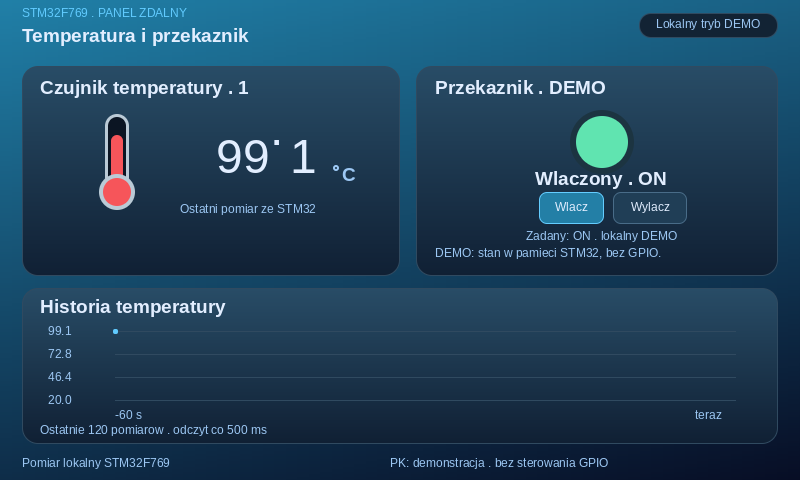
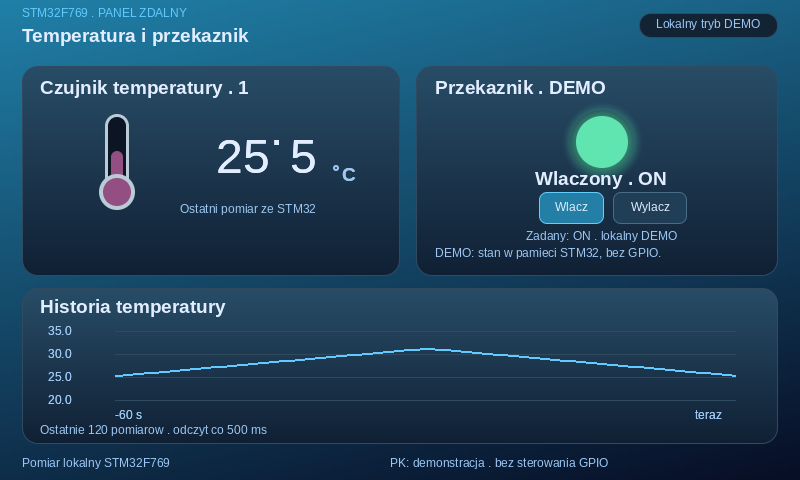
Add relay glow, slow wide-range demo and line-only temperature chart

diff --git a/tests/lcd_temperature_dashboard_test.py b/tests/lcd_temperature_dashboard_test.py
@@ -2,7 +2,7 @@
 from pathlib import Path
 import tempfile, subprocess, shutil
 root = Path(__file__).resolve().parents[1]
-resources = {'test.c': '#include "SCREEN_TemperaturePk.c"\n#include "font_metrics.h"\n#include <assert.h>\n#include <string.h>\n#include <stdlib.h>\nuint32_t pLcd[800*480];\nuint16_t screenTouchState;\nXY_Touch_Struct screenTouchPos;\nstatic XY_Touch_Struct position;\nstatic uint32_t tick;\nstatic int down,samples,fontFailure,shows,parts,registered,resolution=800;\nstatic int fontIndex[17];\nstatic int currentTemperature=255;\nstatic FILE *textLog;\nstatic int decimalChecks,fractionChecks;\nuint32_t HAL_GetTick(void){return tick;}\nuint32_t LCD_GetXSize(void){return resolution;}\nuint32_t LCD_GetYSize(void){return 480;}\nvoid SCREEN_ResetAllParameters(void){memset(pLcd,0,sizeof(pLcd));}\nvoid LCD_Buffer(uint16_t w,uint16_t x,uint16_t y,uint32_t color){assert(w==800&&x<800&&y<480);pLcd[y*w+x]=color;}\nvoid LCD_Shape(uint32_t x,uint32_t y,void *shape,uint32_t w,uint32_t h,uint32_t fc,uint32_t fill,uint32_t bk){\n (void)shape;(void)fc;(void)bk;assert(x+w<=800&&y+h<=480);\n for(unsigned j=y;j<y+h;j++)for(unsigned i=x;i<x+w;i++)pLcd[j*800+i]=fill;\n}\nint LCD_LoadFont_ChangeColor(int size,int style,uint32_t id){\n (void)style;if(fontFailure)return -3;assert(id<17);\n fontIndex[id]=size==16?0:size==24?1:size==28?2:size==72?3:size==9?4:size==14?5:6;return (int)id;\n}\nint LCD_GetWholeStrPxlWidth(int font,char *text,int space,int fixed){\n (void)space;(void)fixed;int n=0;for(;*text;text++)n+=mockWidths[fontIndex[font]][(unsigned char)*text];return n;\n}\nvoid LCD_StrChangeColor(int f,int x,int y,char*t,int h,int s,uint32_t bg,uint32_t color,uint8_t max,int fixed){\n (void)h;(void)s;(void)bg;(void)max;(void)fixed;\n if(f==dashboard.fonts[2] && fixed==ConstWidth){\n   assert(y==140);\n   if(strcmp(t,".")==0){assert(x==270);decimalChecks++;}\n   else if(x==290){assert(strlen(t)==1);fractionChecks++;}\n   else assert(x+LCD_GetWholeStrPxlWidth(f,t,0,ConstWidth)==270);\n }\n\n assert(x>=0&&y>=0&&x+LCD_GetWholeStrPxlWidth(f,t,0,0)<=800&&y+mockSizes[fontIndex[f]]<=480);\n if(textLog)fprintf(textLog,"%d\\t%d\\t%d\\t%08x\\t%d\\t%s\\n",x,y,mockSizes[fontIndex[f]],color,(fontIndex[f]==2 || fontIndex[f]==5),t);\n}\nvoid LCD_Show(void){shows++;}\nvoid LCD_DisplayPart(uint32_t offset,uint32_t x,uint32_t y,uint32_t w,uint32_t h){assert(offset==0&&x+w<=800&&y+h<=480);parts++;}\nvoid LCD_TOUCH_DeleteSelectTouch(uint16_t id){assert(id>=61000&&id<=61002);registered=0;}\nvoid LCD_TOUCH_DeleteAllSetTouch(void){registered=0;}\nint LCDTOUCH_Set(uint16_t x,uint16_t y,uint16_t w,uint16_t h,uint16_t id,uint16_t index,uint8_t param){\n assert(x+w<=800&&y+h<=480&&id==ID_TOUCH_POINT&&index>=61000&&index<=61002&&param==pressRelease);registered=1;return 0;\n}\nint LCD_TOUCH_isPress(void){return down?press:release;}\nXY_Touch_Struct LCD_TOUCH_GetPos(void){return position;}\nuint16_t LCD_TOUCH_GetTypeAndPosition(XY_Touch_Struct*p){*p=position;return registered&&down?61000:0;}\nstatic int sensor(void){samples++;return currentTemperature;}\nstatic void touch(int isDown,int x,int y){down=isDown;position.x=x;position.y=y;}\nstatic void preview(const char *name,int on){\n char path[150];uint8_t pk=(uint8_t)on;\n snprintf(path,sizeof(path),"%s.text",name);textLog=fopen(path,"w");assert(textLog);\n LCD_TemperaturePkPanel2(LCD_TEMP_EXIT,NULL,NULL);touch(0,0,0);\n assert(LCD_TemperaturePkPanel2(LCD_TEMP_ENTER,sensor,&pk)==0);fclose(textLog);textLog=NULL;\n snprintf(path,sizeof(path),"%s.ppm",name);FILE *out=fopen(path,"wb");assert(out);\n fprintf(out,"P6\\n800 480\\n255\\n");for(int i=0;i<800*480;i++){unsigned char b[3]={pLcd[i]>>16,pLcd[i]>>8,pLcd[i]};fwrite(b,1,3,out);}fclose(out);\n}\n\nint main(void){\n uint8_t pk=0;currentTemperature=991;\n assert(LCD_TemperaturePkPanel2(LCD_TEMP_ENTER,sensor,&pk)==0&&samples==1);\n tick=499;LCD_TemperaturePkPanel2(LCD_TEMP_UPDATE,sensor,&pk);assert(samples==1);\n tick=500;LCD_TemperaturePkPanel2(LCD_TEMP_UPDATE,sensor,&pk);assert(samples==2);\n touch(1,570,205);LCD_TemperaturePkPanel2(0,sensor,&pk);assert(pk==0);\n touch(0,570,205);assert(LCD_TemperaturePkPanel2(0,sensor,&pk)==1&&pk==1);\n touch(1,650,205);LCD_TemperaturePkPanel2(0,sensor,&pk);\n touch(0,650,205);assert(LCD_TemperaturePkPanel2(0,sensor,&pk)==1&&pk==0);\n touch(1,570,205);LCD_TemperaturePkPanel2(0,sensor,&pk);\n touch(0,700,240);assert(LCD_TemperaturePkPanel2(0,sensor,&pk)==0&&pk==0);\n for(int i=0;i<140;i++){tick+=500;currentTemperature=i%3==0?INT_MIN:(i%2?-800:1500);LCD_TemperaturePkPanel2(0,sensor,&pk);}\n assert(dashboard.count==120&&dashboard.head<120);\n LCD_TemperaturePkPanel2(2,NULL,NULL);tick=UINT32_MAX-250;touch(0,0,0);\n LCD_TemperaturePkPanel2(1,sensor,&pk);int before=samples;tick=249;\n LCD_TemperaturePkPanel2(0,sensor,&pk);assert(samples==before+1);\n fontFailure=1;assert(LCD_TemperaturePkPanel2(1,sensor,&pk)==-3);fontFailure=0;\n currentTemperature=991;preview("dashboard-on",1);\n for(int i=0;i<120;i++){tick+=500;currentTemperature=250+(i<60?i*10:600-i*5);LCD_TemperaturePkPanel2(0,sensor,&pk);}\n LCD_TemperaturePkPanel2(2,NULL,NULL);touch(0,0,0);\n assert(LCD_TemperaturePkPanel2(1,NULL,&pk)==0&&lcdPanel2Temperature10==255);\n int last=lcdPanel2Temperature10,ups=0,downs=0;\n for(int i=0;i<1000;i++){\n  tick+=499;LCD_TemperaturePkPanel2(0,NULL,&pk);assert(lcdPanel2Temperature10==last);\n  tick++;LCD_TemperaturePkPanel2(0,NULL,&pk);\n  int value=lcdPanel2Temperature10,delta=value-last;\n  assert(value>=200&&value<=350&&abs(delta)>=1&&abs(delta)<=3);\n  ups+=delta>0;downs+=delta<0;last=value;\n }\n assert(ups>0&&downs>0&&dashboard.count==120);\n int checks=decimalChecks;\n const int transitions[]={99,100,999,1000,-1,-100,1500,INT_MIN};\n for(unsigned i=0;i<sizeof(transitions)/sizeof(transitions[0]);i++){\n  tick+=500;currentTemperature=transitions[i];LCD_TemperaturePkPanel2(0,sensor,&pk);\n }\n assert(decimalChecks==checks+8&&fractionChecks==decimalChecks);\n puts("Dark dashboard: 500 ms, ON/OFF, drag cancellation, 120-sample ring, invalid values, tick wrap, bounds: PASS");\n}\n', 'test_support.h': '#ifndef TEST_SUPPORT_H\n#define TEST_SUPPORT_H\n#include <stdint.h>\n#include <stddef.h>\ntypedef struct {uint16_t x,y;} XY_Touch_Struct;\nextern uint16_t screenTouchState;\nextern XY_Touch_Struct screenTouchPos;\nenum {press=1,release=0,pressRelease=2,ID_TOUCH_POINT=0};\nenum {FONT_9=9,FONT_14_bold=14,FONT_36=36,FONT_16=16,FONT_24=24,FONT_28_bold=28,FONT_72=72,Arial=0};\nenum {fontID_14=13,fontID_15=14,fontID_16=15,fontID_17=16};\nenum {fullHight=-3,NoConstWidth=0,ConstWidth=1};\n#define LCD_Rectangle ((void*)1)\nuint32_t HAL_GetTick(void);\nvoid SCREEN_ResetAllParameters(void);\nvoid LCD_Buffer(uint16_t,uint16_t,uint16_t,uint32_t);\nvoid LCD_Shape(uint32_t,uint32_t,void*,uint32_t,uint32_t,uint32_t,uint32_t,uint32_t);\nvoid LCD_StrChangeColor(int,int,int,char*,int,int,uint32_t,uint32_t,uint8_t,int);\nint LCD_GetWholeStrPxlWidth(int,char*,int,int);\nint LCD_LoadFont_ChangeColor(int,int,uint32_t);\nvoid LCD_Show(void);\nvoid LCD_DisplayPart(uint32_t,uint32_t,uint32_t,uint32_t,uint32_t);\nuint32_t LCD_GetXSize(void);\nuint32_t LCD_GetYSize(void);\nvoid LCD_TOUCH_DeleteSelectTouch(uint16_t);\nvoid LCD_TOUCH_DeleteAllSetTouch(void);\nint LCDTOUCH_Set(uint16_t,uint16_t,uint16_t,uint16_t,uint16_t,uint16_t,uint8_t);\nint LCD_TOUCH_isPress(void);\nXY_Touch_Struct LCD_TOUCH_GetPos(void);\nuint16_t LCD_TOUCH_GetTypeAndPosition(XY_Touch_Struct*);\n#endif\n', 'font_metrics.h': 'static const int mockSizes[7]={21,32,37,96,12,19,48};\nstatic const unsigned short mockWidths[7][128]={{0,0,0,0,0,0,0,0,0,0,0,0,0,0,0,0,0,0,0,0,0,0,0,0,0,0,0,0,0,0,0,0,6,6,7,12,12,19,14,4,7,7,8,12,6,7,6,6,12,12,12,12,12,12,12,12,12,12,6,6,12,12,12,12,21,14,14,15,15,14,13,16,15,6,10,14,12,18,15,16,14,16,15,14,13,15,14,20,14,14,13,6,6,6,10,12,7,12,12,10,12,12,6,12,12,5,5,10,5,18,12,12,12,12,7,10,6,12,10,15,10,10,10,7,5,7,12,16},{0,0,0,0,0,0,0,0,0,0,0,0,0,0,0,0,0,0,0,0,0,0,0,0,0,0,0,0,0,0,0,0,9,9,11,18,18,28,21,6,11,11,12,19,9,11,9,9,18,18,18,18,18,18,18,18,18,18,9,9,19,19,19,18,32,21,21,23,23,21,20,25,23,9,16,21,18,27,23,25,21,25,23,21,20,23,21,30,21,21,20,9,9,9,15,18,11,18,18,16,18,18,9,18,18,7,7,16,7,27,18,18,18,18,11,16,9,18,16,23,16,16,16,11,8,11,19,24},{0,0,0,0,0,0,0,0,0,0,0,0,0,0,0,0,0,0,0,0,0,0,0,0,0,0,0,0,0,0,0,0,10,12,18,21,21,33,27,9,12,12,14,22,10,12,10,10,21,21,21,21,21,21,21,21,21,21,12,12,22,22,22,23,36,27,27,27,27,25,23,29,27,10,21,27,23,31,27,29,25,29,27,25,23,27,25,35,25,25,23,12,10,12,22,21,12,21,23,21,23,21,12,23,23,10,10,21,10,33,23,23,23,23,14,21,12,23,21,29,21,21,18,14,10,14,22,28},{0,0,0,0,0,0,0,0,0,0,0,0,0,0,0,0,0,0,0,0,0,0,0,0,0,0,0,0,0,0,0,0,27,27,34,53,53,85,64,18,32,32,37,56,27,32,27,27,53,53,53,53,53,53,53,53,53,53,27,27,56,56,56,53,97,64,64,69,69,64,59,75,69,27,48,64,53,80,69,75,64,75,69,64,59,69,64,91,64,64,59,27,27,27,45,53,32,53,53,48,53,53,27,53,53,21,21,48,21,80,53,53,53,53,32,48,27,53,48,69,48,48,48,32,25,32,56,72},{0,0,0,0,0,0,0,0,0,0,0,0,0,0,0,0,0,0,0,0,0,0,0,0,0,0,0,0,0,0,0,0,3,3,4,7,7,11,8,2,4,4,5,7,3,4,3,3,7,7,7,7,7,7,7,7,7,7,3,3,7,7,7,7,12,8,8,9,9,8,7,9,9,3,6,8,7,10,9,9,8,9,9,8,7,9,8,11,8,8,7,3,3,3,6,7,4,7,7,6,7,7,3,7,7,3,3,6,3,10,7,7,7,7,4,6,3,7,6,9,6,6,6,4,3,4,7,9},{0,0,0,0,0,0,0,0,0,0,0,0,0,0,0,0,0,0,0,0,0,0,0,0,0,0,0,0,0,0,0,0,5,6,9,11,11,17,14,5,6,6,7,11,5,6,5,5,11,11,11,11,11,11,11,11,11,11,6,6,11,11,11,12,19,14,14,14,14,13,12,15,14,5,11,14,12,16,14,15,13,15,14,13,12,14,13,18,13,13,12,6,5,6,11,11,6,11,12,11,12,11,6,12,12,5,5,11,5,17,12,12,12,12,7,11,6,12,11,15,11,11,10,7,5,7,11,14},{0,0,0,0,0,0,0,0,0,0,0,0,0,0,0,0,0,0,0,0,0,0,0,0,0,0,0,0,0,0,0,0,13,13,17,27,27,43,32,9,16,16,19,28,13,16,13,13,27,27,27,27,27,27,27,27,27,27,13,13,28,28,28,27,49,32,32,35,35,32,29,37,35,13,24,32,27,40,35,37,32,37,35,32,29,35,32,45,32,32,29,13,13,13,23,27,16,27,27,24,27,27,13,27,27,11,11,24,11,40,27,27,27,27,16,24,13,27,24,35,24,24,24,16,12,16,28,36}};'}
+resources = {'test.c': '#include "SCREEN_TemperaturePk.c"\n#include "font_metrics.h"\n#include <assert.h>\n#include <string.h>\n#include <stdlib.h>\nuint32_t pLcd[800*480];\nuint16_t screenTouchState;\nXY_Touch_Struct screenTouchPos;\nstatic XY_Touch_Struct position;\nstatic uint32_t tick;\nstatic int down,samples,fontFailure,shows,parts,registered,resolution=800;\nstatic int fontIndex[17];\nstatic int currentTemperature=255;\nstatic FILE *textLog;\nstatic int decimalChecks,fractionChecks;\nuint32_t HAL_GetTick(void){return tick;}\nuint32_t LCD_GetXSize(void){return resolution;}\nuint32_t LCD_GetYSize(void){return 480;}\nvoid SCREEN_ResetAllParameters(void){memset(pLcd,0,sizeof(pLcd));}\nvoid LCD_Buffer(uint16_t w,uint16_t x,uint16_t y,uint32_t color){assert(w==800&&x<800&&y<480);pLcd[y*w+x]=color;}\nvoid LCD_Shape(uint32_t x,uint32_t y,void *shape,uint32_t w,uint32_t h,uint32_t fc,uint32_t fill,uint32_t bk){\n (void)shape;(void)fc;(void)bk;assert(x+w<=800&&y+h<=480);\n for(unsigned j=y;j<y+h;j++)for(unsigned i=x;i<x+w;i++)pLcd[j*800+i]=fill;\n}\nint LCD_LoadFont_ChangeColor(int size,int style,uint32_t id){\n (void)style;if(fontFailure)return -3;assert(id<17);\n fontIndex[id]=size==16?0:size==24?1:size==28?2:size==72?3:size==9?4:size==14?5:6;return (int)id;\n}\nint LCD_GetWholeStrPxlWidth(int font,char *text,int space,int fixed){\n (void)space;(void)fixed;int n=0;for(;*text;text++)n+=mockWidths[fontIndex[font]][(unsigned char)*text];return n;\n}\nvoid LCD_StrChangeColor(int f,int x,int y,char*t,int h,int s,uint32_t bg,uint32_t color,uint8_t max,int fixed){\n (void)h;(void)s;(void)bg;(void)max;(void)fixed;\n if(f==dashboard.fonts[2] && fixed==ConstWidth){\n   assert(y==140);\n   if(strcmp(t,".")==0){assert(x==270);decimalChecks++;}\n   else if(x==290){assert(strlen(t)==1);fractionChecks++;}\n   else assert(x+LCD_GetWholeStrPxlWidth(f,t,0,ConstWidth)==270);\n }\n\n assert(x>=0&&y>=0&&x+LCD_GetWholeStrPxlWidth(f,t,0,0)<=800&&y+mockSizes[fontIndex[f]]<=480);\n if(textLog)fprintf(textLog,"%d\\t%d\\t%d\\t%08x\\t%d\\t%s\\n",x,y,mockSizes[fontIndex[f]],color,(fontIndex[f]==2 || fontIndex[f]==5),t);\n}\nvoid LCD_Show(void){shows++;}\nvoid LCD_DisplayPart(uint32_t offset,uint32_t x,uint32_t y,uint32_t w,uint32_t h){assert(offset==0&&x+w<=800&&y+h<=480);parts++;}\nvoid LCD_TOUCH_DeleteSelectTouch(uint16_t id){assert(id>=61000&&id<=61002);registered=0;}\nvoid LCD_TOUCH_DeleteAllSetTouch(void){registered=0;}\nint LCDTOUCH_Set(uint16_t x,uint16_t y,uint16_t w,uint16_t h,uint16_t id,uint16_t index,uint8_t param){\n assert(x+w<=800&&y+h<=480&&id==ID_TOUCH_POINT&&index>=61000&&index<=61002&&param==pressRelease);registered=1;return 0;\n}\nint LCD_TOUCH_isPress(void){return down?press:release;}\nXY_Touch_Struct LCD_TOUCH_GetPos(void){return position;}\nuint16_t LCD_TOUCH_GetTypeAndPosition(XY_Touch_Struct*p){*p=position;return registered&&down?61000:0;}\nstatic int sensor(void){samples++;return currentTemperature;}\nstatic void touch(int isDown,int x,int y){down=isDown;position.x=x;position.y=y;}\nstatic void preview(const char *name,int on){\n char path[150];uint8_t pk=(uint8_t)on;\n snprintf(path,sizeof(path),"%s.text",name);textLog=fopen(path,"w");assert(textLog);\n LCD_TemperaturePkPanel2(LCD_TEMP_EXIT,NULL,NULL);touch(0,0,0);\n assert(LCD_TemperaturePkPanel2(LCD_TEMP_ENTER,sensor,&pk)==0);fclose(textLog);textLog=NULL;\n snprintf(path,sizeof(path),"%s.ppm",name);FILE *out=fopen(path,"wb");assert(out);\n fprintf(out,"P6\\n800 480\\n255\\n");for(int i=0;i<800*480;i++){unsigned char b[3]={pLcd[i]>>16,pLcd[i]>>8,pLcd[i]};fwrite(b,1,3,out);}fclose(out);\n}\n\nint main(void){\n uint8_t pk=0;currentTemperature=991;\n assert(LCD_TemperaturePkPanel2(LCD_TEMP_ENTER,sensor,&pk)==0&&samples==1);\n tick=499;LCD_TemperaturePkPanel2(LCD_TEMP_UPDATE,sensor,&pk);assert(samples==1);\n tick=500;LCD_TemperaturePkPanel2(LCD_TEMP_UPDATE,sensor,&pk);assert(samples==2);\n touch(1,570,205);LCD_TemperaturePkPanel2(0,sensor,&pk);assert(pk==0);\n touch(0,570,205);assert(LCD_TemperaturePkPanel2(0,sensor,&pk)==1&&pk==1);\n touch(1,650,205);LCD_TemperaturePkPanel2(0,sensor,&pk);\n touch(0,650,205);assert(LCD_TemperaturePkPanel2(0,sensor,&pk)==1&&pk==0);\n touch(1,570,205);LCD_TemperaturePkPanel2(0,sensor,&pk);\n touch(0,700,240);assert(LCD_TemperaturePkPanel2(0,sensor,&pk)==0&&pk==0);\n for(int i=0;i<140;i++){tick+=500;currentTemperature=i%3==0?INT_MIN:(i%2?-800:1500);LCD_TemperaturePkPanel2(0,sensor,&pk);}\n assert(dashboard.count==120&&dashboard.head<120);\n LCD_TemperaturePkPanel2(2,NULL,NULL);tick=UINT32_MAX-250;touch(0,0,0);\n LCD_TemperaturePkPanel2(1,sensor,&pk);int before=samples;tick=249;\n LCD_TemperaturePkPanel2(0,sensor,&pk);assert(samples==before+1);\n fontFailure=1;assert(LCD_TemperaturePkPanel2(1,sensor,&pk)==-3);fontFailure=0;\n currentTemperature=991;preview("dashboard-on",1);\n for(int i=0;i<120;i++){tick+=500;currentTemperature=250+(i<60?i*10:600-i*5);LCD_TemperaturePkPanel2(0,sensor,&pk);}\n LCD_TemperaturePkPanel2(2,NULL,NULL);touch(0,0,0);\n assert(LCD_TemperaturePkPanel2(1,NULL,&pk)==0&&lcdPanel2Temperature10==255);\n int last=lcdPanel2Temperature10,ups=0,downs=0;\n for(int i=0;i<4000;i++){\n  tick+=499;LCD_TemperaturePkPanel2(0,NULL,&pk);assert(lcdPanel2Temperature10==last);\n  tick++;LCD_TemperaturePkPanel2(0,NULL,&pk);\n  int value=lcdPanel2Temperature10,delta=value-last;\n  assert(value>=-500&&value<=900&&abs(delta)>=5&&abs(delta)<=6);\n  ups+=delta>0;downs+=delta<0;last=value;\n }\n assert(ups>0&&downs>0&&dashboard.count==120);\n int checks=decimalChecks;\n const int transitions[]={99,100,999,1000,-1,-100,1500,INT_MIN};\n for(unsigned i=0;i<sizeof(transitions)/sizeof(transitions[0]);i++){\n  tick+=500;currentTemperature=transitions[i];LCD_TemperaturePkPanel2(0,sensor,&pk);\n }\n assert(decimalChecks==checks+8&&fractionChecks==decimalChecks);\n puts("Dark dashboard: 500 ms, ON/OFF, drag cancellation, 120-sample ring, invalid values, tick wrap, bounds: PASS");\n}\n', 'test_support.h': '#ifndef TEST_SUPPORT_H\n#define TEST_SUPPORT_H\n#include <stdint.h>\n#include <stddef.h>\ntypedef struct {uint16_t x,y;} XY_Touch_Struct;\nextern uint16_t screenTouchState;\nextern XY_Touch_Struct screenTouchPos;\nenum {press=1,release=0,pressRelease=2,ID_TOUCH_POINT=0};\nenum {FONT_9=9,FONT_14_bold=14,FONT_36=36,FONT_16=16,FONT_24=24,FONT_28_bold=28,FONT_72=72,Arial=0};\nenum {fontID_14=13,fontID_15=14,fontID_16=15,fontID_17=16};\nenum {fullHight=-3,NoConstWidth=0,ConstWidth=1};\n#define LCD_Rectangle ((void*)1)\nuint32_t HAL_GetTick(void);\nvoid SCREEN_ResetAllParameters(void);\nvoid LCD_Buffer(uint16_t,uint16_t,uint16_t,uint32_t);\nvoid LCD_Shape(uint32_t,uint32_t,void*,uint32_t,uint32_t,uint32_t,uint32_t,uint32_t);\nvoid LCD_StrChangeColor(int,int,int,char*,int,int,uint32_t,uint32_t,uint8_t,int);\nint LCD_GetWholeStrPxlWidth(int,char*,int,int);\nint LCD_LoadFont_ChangeColor(int,int,uint32_t);\nvoid LCD_Show(void);\nvoid LCD_DisplayPart(uint32_t,uint32_t,uint32_t,uint32_t,uint32_t);\nuint32_t LCD_GetXSize(void);\nuint32_t LCD_GetYSize(void);\nvoid LCD_TOUCH_DeleteSelectTouch(uint16_t);\nvoid LCD_TOUCH_DeleteAllSetTouch(void);\nint LCDTOUCH_Set(uint16_t,uint16_t,uint16_t,uint16_t,uint16_t,uint16_t,uint8_t);\nint LCD_TOUCH_isPress(void);\nXY_Touch_Struct LCD_TOUCH_GetPos(void);\nuint16_t LCD_TOUCH_GetTypeAndPosition(XY_Touch_Struct*);\n#endif\n', 'font_metrics.h': 'static const int mockSizes[7]={21,32,37,96,12,19,48};\nstatic const unsigned short mockWidths[7][128]={{0,0,0,0,0,0,0,0,0,0,0,0,0,0,0,0,0,0,0,0,0,0,0,0,0,0,0,0,0,0,0,0,6,6,7,12,12,19,14,4,7,7,8,12,6,7,6,6,12,12,12,12,12,12,12,12,12,12,6,6,12,12,12,12,21,14,14,15,15,14,13,16,15,6,10,14,12,18,15,16,14,16,15,14,13,15,14,20,14,14,13,6,6,6,10,12,7,12,12,10,12,12,6,12,12,5,5,10,5,18,12,12,12,12,7,10,6,12,10,15,10,10,10,7,5,7,12,16},{0,0,0,0,0,0,0,0,0,0,0,0,0,0,0,0,0,0,0,0,0,0,0,0,0,0,0,0,0,0,0,0,9,9,11,18,18,28,21,6,11,11,12,19,9,11,9,9,18,18,18,18,18,18,18,18,18,18,9,9,19,19,19,18,32,21,21,23,23,21,20,25,23,9,16,21,18,27,23,25,21,25,23,21,20,23,21,30,21,21,20,9,9,9,15,18,11,18,18,16,18,18,9,18,18,7,7,16,7,27,18,18,18,18,11,16,9,18,16,23,16,16,16,11,8,11,19,24},{0,0,0,0,0,0,0,0,0,0,0,0,0,0,0,0,0,0,0,0,0,0,0,0,0,0,0,0,0,0,0,0,10,12,18,21,21,33,27,9,12,12,14,22,10,12,10,10,21,21,21,21,21,21,21,21,21,21,12,12,22,22,22,23,36,27,27,27,27,25,23,29,27,10,21,27,23,31,27,29,25,29,27,25,23,27,25,35,25,25,23,12,10,12,22,21,12,21,23,21,23,21,12,23,23,10,10,21,10,33,23,23,23,23,14,21,12,23,21,29,21,21,18,14,10,14,22,28},{0,0,0,0,0,0,0,0,0,0,0,0,0,0,0,0,0,0,0,0,0,0,0,0,0,0,0,0,0,0,0,0,27,27,34,53,53,85,64,18,32,32,37,56,27,32,27,27,53,53,53,53,53,53,53,53,53,53,27,27,56,56,56,53,97,64,64,69,69,64,59,75,69,27,48,64,53,80,69,75,64,75,69,64,59,69,64,91,64,64,59,27,27,27,45,53,32,53,53,48,53,53,27,53,53,21,21,48,21,80,53,53,53,53,32,48,27,53,48,69,48,48,48,32,25,32,56,72},{0,0,0,0,0,0,0,0,0,0,0,0,0,0,0,0,0,0,0,0,0,0,0,0,0,0,0,0,0,0,0,0,3,3,4,7,7,11,8,2,4,4,5,7,3,4,3,3,7,7,7,7,7,7,7,7,7,7,3,3,7,7,7,7,12,8,8,9,9,8,7,9,9,3,6,8,7,10,9,9,8,9,9,8,7,9,8,11,8,8,7,3,3,3,6,7,4,7,7,6,7,7,3,7,7,3,3,6,3,10,7,7,7,7,4,6,3,7,6,9,6,6,6,4,3,4,7,9},{0,0,0,0,0,0,0,0,0,0,0,0,0,0,0,0,0,0,0,0,0,0,0,0,0,0,0,0,0,0,0,0,5,6,9,11,11,17,14,5,6,6,7,11,5,6,5,5,11,11,11,11,11,11,11,11,11,11,6,6,11,11,11,12,19,14,14,14,14,13,12,15,14,5,11,14,12,16,14,15,13,15,14,13,12,14,13,18,13,13,12,6,5,6,11,11,6,11,12,11,12,11,6,12,12,5,5,11,5,17,12,12,12,12,7,11,6,12,11,15,11,11,10,7,5,7,11,14},{0,0,0,0,0,0,0,0,0,0,0,0,0,0,0,0,0,0,0,0,0,0,0,0,0,0,0,0,0,0,0,0,13,13,17,27,27,43,32,9,16,16,19,28,13,16,13,13,27,27,27,27,27,27,27,27,27,27,13,13,28,28,28,27,49,32,32,35,35,32,29,37,35,13,24,32,27,40,35,37,32,37,35,32,29,35,32,45,32,32,29,13,13,13,23,27,16,27,27,24,27,27,13,27,27,11,11,24,11,40,27,27,27,27,16,24,13,27,24,35,24,24,24,16,12,16,28,36}};'}
 with tempfile.TemporaryDirectory(prefix="stm32-lcd-panel-") as directory:
     work = Path(directory)
     for name, content in resources.items():

diff --git a/Application/LCD/Screens/SCREEN_TemperaturePk.c b/Application/LCD/Screens/SCREEN_TemperaturePk.c
@@ -268,7 +268,7 @@ static struct {
     unsigned count, head;
     int history[120];
     uint32_t sampleTick, randomState;
-    int demoTemperature;
+    int demoTemperature, demoDirection;
 } dashboard;
 uint8_t lcdPanel2PkDemo = 1;
 volatile int lcdPanel2Result;
@@ -343,10 +343,15 @@ static void DashTemperature(void)
     PanelRound(105,114,24,75,12,0xFFBACAD6U,0xFFBACAD6U,255);
     PanelRound(108,117,18,72,9,DASH_BG,DASH_BG,255);
     int valid=dashboard.temperature>=-800 && dashboard.temperature<=1500;
-    int level=valid?(dashboard.temperature+800)*66/2300:0;
-    if(level>0) PanelRound(111,186-level,12,level+4,6,0xFFF6555AU,0xFFF6555AU,255);
+    int bounded=dashboard.temperature;
+    if(bounded < -500)bounded=-500;
+    if(bounded > 900)bounded=900;
+    unsigned heat=(unsigned)((bounded+500)*255/1400);
+    uint32_t mercury=valid?PanelMix(0xFF168BFFU,0xFFFF1C16U,heat):0xFF52677CU;
+    int level=valid?(bounded+500)*66/1400:0;
+    if(level>0) PanelRound(111,186-level,12,level+4,6,mercury,mercury,255);
     PanelRound(99,174,36,36,18,0xFFBACAD6U,0xFFBACAD6U,255);
-    PanelRound(103,178,28,28,14,0xFFF6555AU,0xFFF6555AU,255);
+    PanelRound(103,178,28,28,14,mercury,mercury,255);
     /* ConstWidth is the native font API's constant-width attribute.
      * Right-align the integer independently: changing 9.9 -> 10.0 or sign
      * cannot move the decimal point, fractional digit or degree/C symbol.
@@ -386,7 +391,6 @@ static void DashTemperature(void)
         if(v < -800 || v > 1500){previousValid=0;continue;}
         int x=115+(int)i*620/119, y=400-(v-low)*69/(high-low);
         if(previousValid) {DashLine(px,py,x,y,DASH_CYAN);DashLine(px,py+1,x,y+1,DASH_CYAN);}
-        PanelRound(x-2,y-2,5,5,2,DASH_CYAN,DASH_CYAN,255);
         px=x;py=y;previousValid=1;
     }
     DashText(0,115,410,"-60 s",DASH_MUTED);
@@ -394,8 +398,21 @@ static void DashTemperature(void)
 }
 static void DashRelay(int pk)
 {
-    DashSurface(435,109,322,134);
+    DashSurface(435,100,322,143);
     PanelRound(570,110,64,64,32,0xFF1C3441U,0xFF1C3441U,255);
+    if(pk) {
+        /* Soft radial halo, blended over the restored card gradient.
+         * Draw only when ON; repainting the region removes it on OFF.
+         */
+        for(int dy=-42;dy<=42;dy++) for(int dx=-42;dx<=42;dx++) {
+            float distance=sqrtf((float)(dx*dx+dy*dy));
+            float fade=(42.0f-distance)/19.0f;
+            if(fade<=0)continue;
+            if(fade>1)fade=1;
+            float smooth=fade*fade*(3.0f-2.0f*fade);
+            PanelPixel(602+dx,142+dy,0xFF58FFC0U,(unsigned)(100.0f*smooth));
+        }
+    }
     PanelRound(576,116,52,52,26,pk?0xFF60E4B0U:0xFF52677CU,pk?0xFF60E4B0U:0xFF52677CU,255);
     DashCenter(1,602,171,pk?"Wlaczony . ON":"Wylaczony . OFF",DASH_TEXT);
     DashBox(539,192,65,32,8,0xFF64CDFFU,dashboard.pressed==1?0xFF125078U:0xFF237FA6U);
@@ -431,7 +448,7 @@ int LCD_TemperaturePkPanel2(uint8_t mode,int (*readTemperature10)(void),uint8_t 
         dashboard.armed=dashboard.pressed=0;
         dashboard.randomState=now ^ 0x6D2B79F5U;
         if(!dashboard.randomState)dashboard.randomState=1;
-        dashboard.demoTemperature=255;
+        dashboard.demoTemperature=255;dashboard.demoDirection=1;
         dashboard.sampleTick=now-500U;dashboard.active=1;
         DashStatic();
     }
@@ -454,15 +471,18 @@ int LCD_TemperaturePkPanel2(uint8_t mode,int (*readTemperature10)(void),uint8_t 
         if(readTemperature10)dashboard.temperature=readTemperature10();
         else {
             /* Private PRNG: no global rand() state, peripherals or GPIO.
-             * Smooth random walk: each sample changes by 0.1 .. 0.3 C.
+             * Slow sweep from -50 to +90 C, about 120 s per full traversal.
              */
             if(dashboard.count) {
                 uint32_t r=dashboard.randomState;
                 r^=r<<13;r^=r>>17;r^=r<<5;dashboard.randomState=r;
-                int step=1+(int)(r%3U);
-                if(r&0x100U)step=-step;
+                int step=5+(r%6U!=0U);
+                step*=dashboard.demoDirection;
                 int next=dashboard.demoTemperature+step;
-                if(next<200 || next>350)next=dashboard.demoTemperature-step;
+                if(next < -500 || next > 900) {
+                    dashboard.demoDirection=-dashboard.demoDirection;
+                    next=dashboard.demoTemperature-step;
+                }
                 dashboard.demoTemperature=next;
             }
             dashboard.temperature=dashboard.demoTemperature;
@@ -477,7 +497,7 @@ int LCD_TemperaturePkPanel2(uint8_t mode,int (*readTemperature10)(void),uint8_t 
     if(all)LCD_Show();
     else{
         if(sample){LCD_DisplayPart(0,48,112,334,98);LCD_DisplayPart(0,42,327,714,98);}
-        if(relay)LCD_DisplayPart(0,435,109,322,134);
+        if(relay)LCD_DisplayPart(0,435,100,322,143);
     }
     return changed;
 }

diff --git a/docs/lcd-temperature-panel/README.pl.md b/docs/lcd-temperature-panel/README.pl.md
@@ -116,7 +116,8 @@ Poprzedni ekran 7 pozostaje dostepny.
 
 - `lcdPanel2ReadTemperature10`: wskaznik callbacku czujnika, wynik 991 oznacza 99.1 C.
   NULL uruchamia lagodna losowa demonstracje: poczatkowo 25.5 C,
-  co 500 ms zmiana o +/-0.1 do 0.3 C, zakres 20.0..35.0 C.
+  co 500 ms zmiana o +/-0.5 do 0.6 C, zakres -50.0..90.0 C. Kierunek zmienia sie na granicach;
+  pelne przejscie zakresu trwa okolo 2 minut.
   Wykres dopisuje probki na biezaco i dopasowuje skale do zakresu danych.
 - `lcdPanel2PkDemo`: stan RAM, domyslnie ON. Przyciski Wlacz/Wylacz
   ustawiaja stan po puszczeniu palca wewnatrz tego samego przycisku.
@@ -134,3 +135,6 @@ z zastepczymi czcionkami Liberation Sans; Arial na LCD moze sie roznic.
 Test: `python3 tests/lcd_temperature_dashboard_test.py`.
 Test hosta sprawdza dotyk, interwal, zawijanie licznika czasu, 120 probek,
 bledne temperatury i granice bufora. Ostateczna walidacja wymaga plytki i SD.
+
+Termometr: poziom i kolor od niebieskiego (-50 C) do czerwonego (+90 C).
+Kontrolka PK: zielona radialna poswiata tylko w stanie ON.
